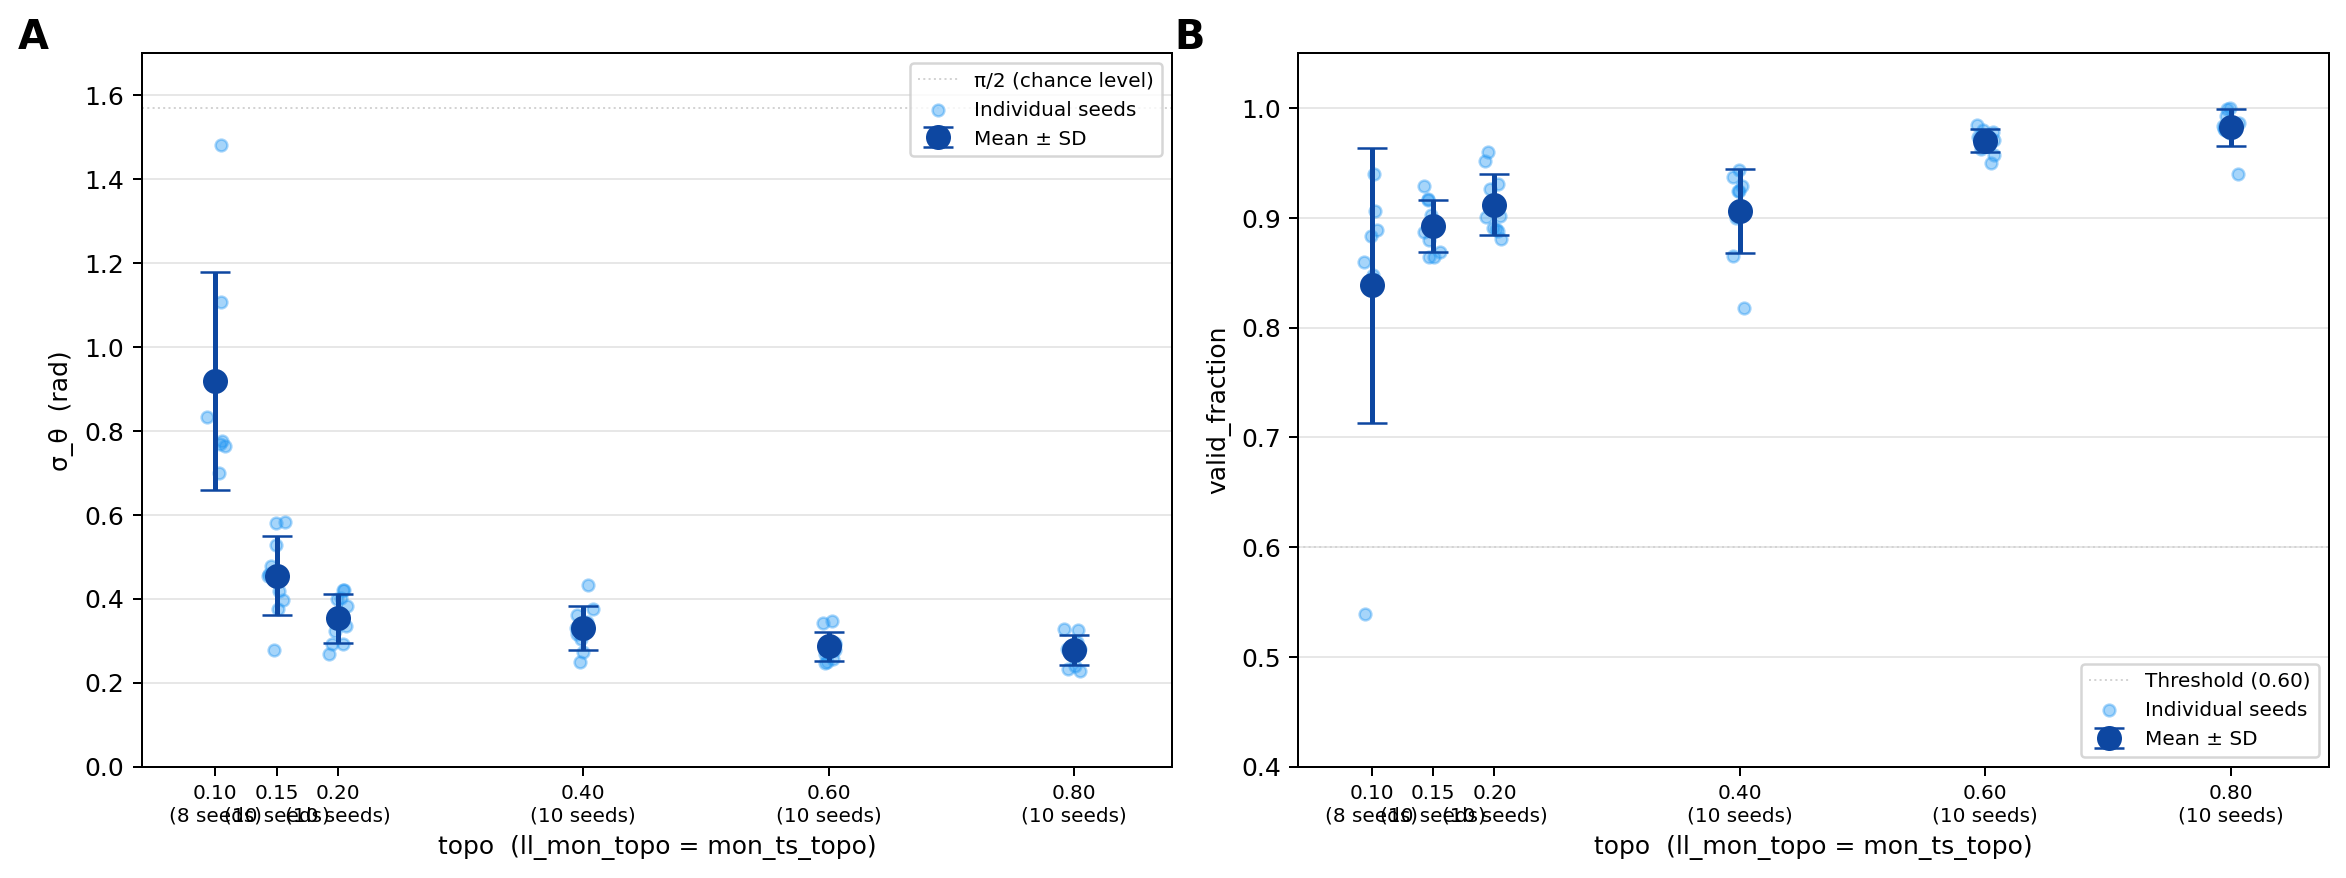
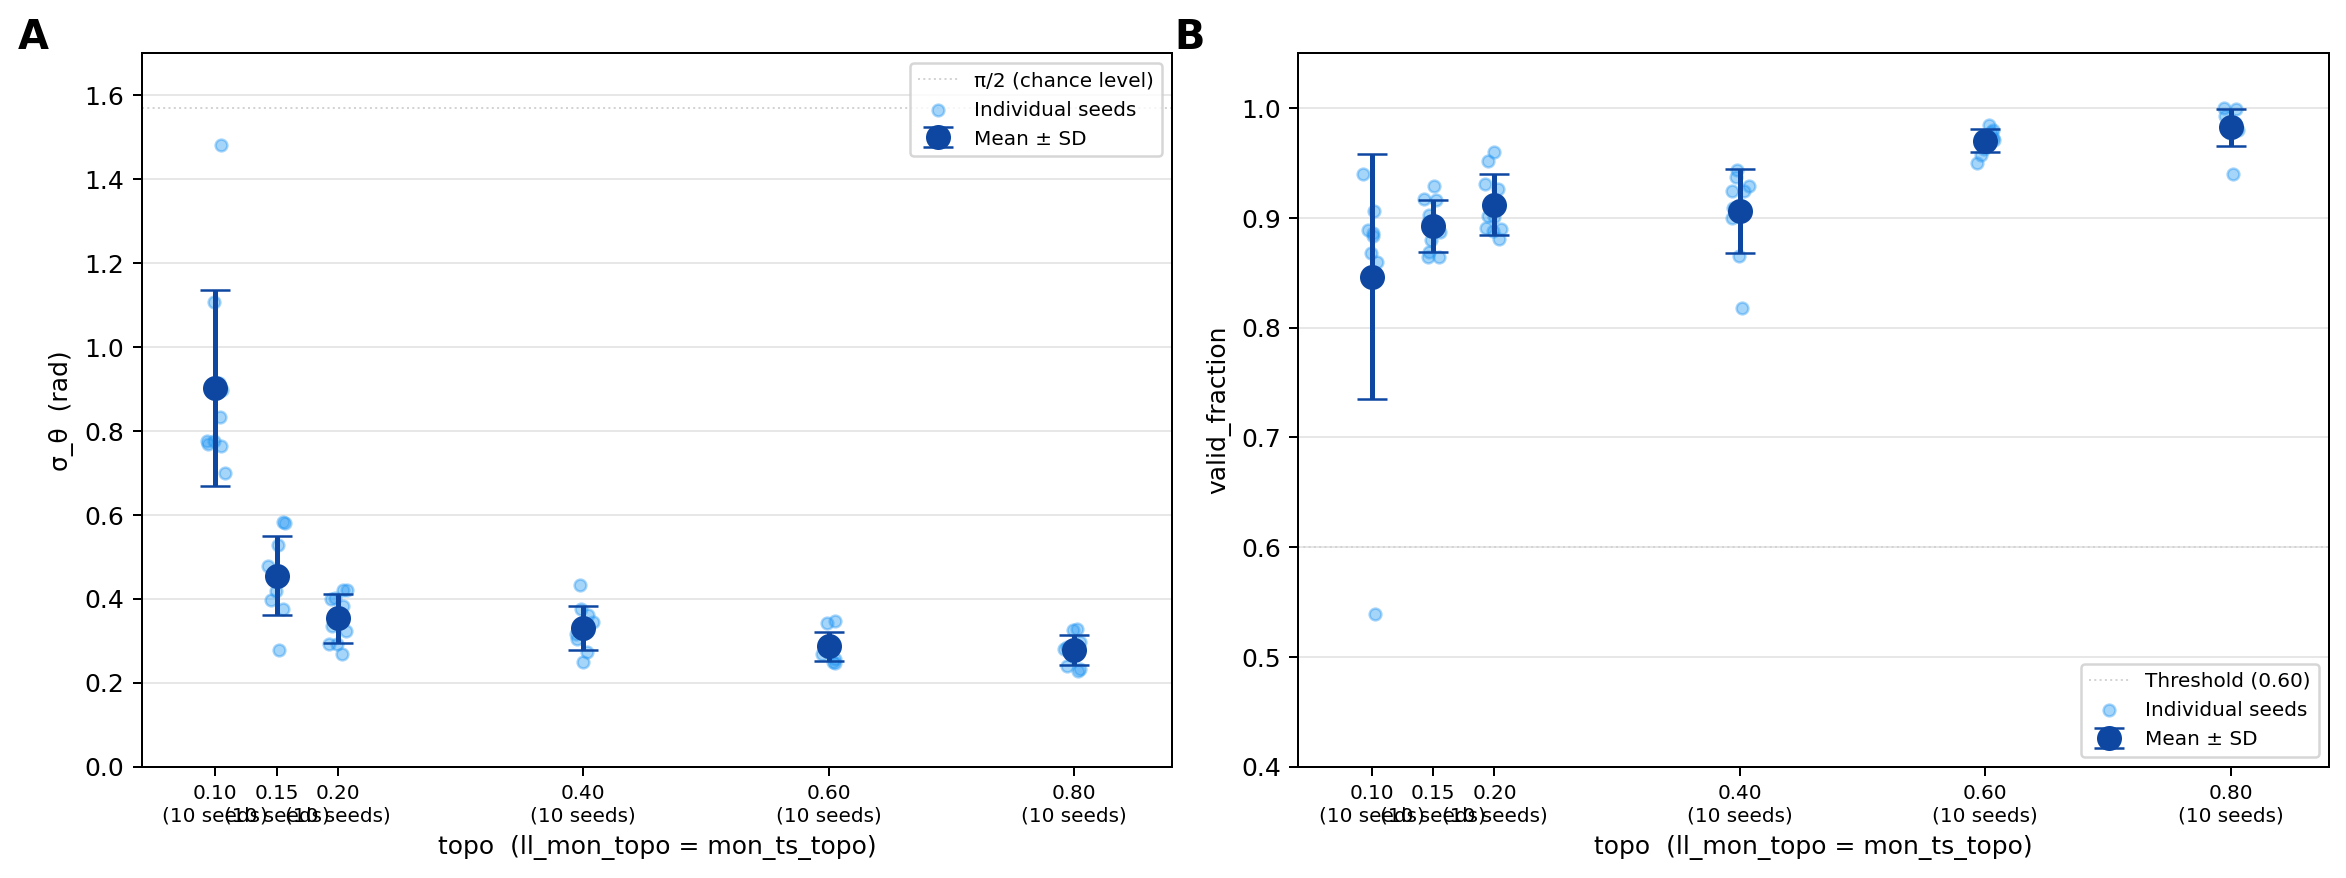
Fill topo=0.10 to 10 seeds: retrain 124, 125 post-B1; update figure, table, text
Seeds 124 and 125 at topo=0.10 were retrained on 2026-05-17 with the
post-B1 deterministic Brian2 RNG (b2.seed(seed+12345)). Extract-mode
evaluation gives:

  seed 124: σ_θ = 0.775, valid = 0.868
  seed 125: σ_θ = 0.897, valid = 0.886

Both fall within the typical topo=0.10 range, confirming the failure
mode at this somatotopy is not specific to the seeds the original Y4
run happened to use.

Updated statistics (N=10, was N=8):
  σ_θ      0.902 ± 0.234 rad (was 0.919 ± 0.260)
  valid    0.846 ± 0.112    (was 0.839 ± 0.125)
  failure rate 1/10 = 10%  (was 1/8 = 13%)

Changes:
- plots/topo_gradient_summary.py: extend sigma_010/valid_010 to 10 seeds,
  seed_counts list to [10,10,10,10,10,10].
- Picture/topo_gradient_summary.png: regenerated with N=10 at all levels.
- RESULTS.md: topo=0.10 table now lists all 10 seeds (with provenance
  note on 124/125 vs the older 8); mean rows updated; "topo=0.10 floor"
  paragraph; Fig 1 caption; Status section; TL;DR delta-σ value.

Also fixed a separate misleading wording: in §Methods the LL row of
the architecture table said "Poisson input" which sounded like random
noise. Clarified: input = analytical hydrodynamic dipole field
(stimulus.py), only the spike emission is Poisson.

Force-added the regenerated PNG (gitignore excludes *.png; the published
figure needs to live in the repo to render on GitHub).

diff --git a/plots/topo_gradient_summary.py b/plots/topo_gradient_summary.py
@@ -25,9 +25,11 @@ import numpy as np
 # Per-seed data
 # -----------------------------------------------------------------------
 
-# topo = 0.10 — 8 seeds (123, 126-132); extract-mode
-sigma_010 = np.array([1.482, 0.915, 0.775, 0.699, 0.834, 0.765, 0.770, 1.108])
-valid_010 = np.array([0.539, 0.860, 0.906, 0.884, 0.848, 0.889, 0.940, 0.844])
+# topo = 0.10 — 10 seeds (123-132); extract-mode
+# Seeds 124, 125 retrained post-B1 fix on 2026-05-17 (commit 3392ea8 onwards);
+# other seeds are from the original (pre-B1) Y4 run. Mixed-RNG dataset.
+sigma_010 = np.array([1.482, 0.775, 0.897, 0.915, 0.775, 0.699, 0.834, 0.765, 0.770, 1.108])
+valid_010 = np.array([0.539, 0.868, 0.886, 0.860, 0.906, 0.884, 0.848, 0.889, 0.940, 0.844])
 
 # topo = 0.15 — 10 seeds (123-132); extract-mode
 sigma_015 = np.array([0.459, 0.580, 0.278, 0.583, 0.418, 0.398, 0.528, 0.477, 0.376, 0.453])
@@ -63,7 +65,7 @@ sigma_sds   = np.array([s.std(ddof=1) for s in all_sigma])
 valid_means = np.array([v.mean() for v in all_valid])
 valid_sds   = np.array([v.std(ddof=1) for v in all_valid])
 
-seed_counts = [8, 10, 10, 10, 10, 10]
+seed_counts = [10, 10, 10, 10, 10, 10]
 
 # -----------------------------------------------------------------------
 # Figure

diff --git a/RESULTS.md b/RESULTS.md
@@ -10,7 +10,7 @@ The trivial case — strong, hand-wired anatomical topography in MON — has alw
 
 **Yes**, with one important qualification. The recipe documented in `BASELINE.md` produces a population-level somatotopic map in TS at MON anatomical somatotopy as low as **`ll_mon_topo = mon_ts_topo = 0.15`**, comfortably below the high-topo reference (0.80) used in earlier work. At the **best operating point (topo = 0.20)** the recipe is highly reliable: 10 / 10 seeds give σ_θ < 0.5 rad and valid_fraction > 0.86. At **topo = 0.15** it remains reliable but with broader maps. At the **floor (topo = 0.10)** it becomes unstable — most seeds still produce a map, but ~10 % fail outright.
 
-The full topo gradient (0.10 → 0.80, 10 seeds each) is now complete. Map quality improves monotonically with anatomical topography, but the improvement flattens sharply above topo = 0.20: going from 0.20 to 0.80 reduces mean σ_θ by only ~0.07 rad (0.353 → 0.278), while going from 0.10 to 0.20 reduces it by 0.57 rad (0.919 → 0.353). **The recipe already captures the vast majority of achievable map quality at weak somatotopy.**
+The full topo gradient (0.10 → 0.80, 10 seeds each) is now complete. Map quality improves monotonically with anatomical topography, but the improvement flattens sharply above topo = 0.20: going from 0.20 to 0.80 reduces mean σ_θ by only ~0.07 rad (0.353 → 0.278), while going from 0.10 to 0.20 reduces it by 0.55 rad (0.902 → 0.353). **The recipe already captures the vast majority of achievable map quality at weak somatotopy.**
 
 A persistent imperfection across all topo levels is **multimodal per-TS-cell tuning** (vertical bands in TS spike rasters) — see "Open questions" below.
 
@@ -26,7 +26,7 @@ Three-layer feed-forward network (defaults from `params.py`, mode `ll_thesis`):
 
 | Layer | Size | Role |
 |---|---|---|
-| **LL** (lateral-line afferents) | 100 | Poisson input, one neuron per neuromast, x-positions equispaced on a 4 cm body |
+| **LL** (lateral-line afferents) | 100 | One neuron per neuromast, x-positions equispaced on a 4 cm body. Input = analytical hydrodynamic dipole field (`stimulus.py`); only the **spike emission** is Poisson (inhomogeneous rate, see Stimulus section). |
 | **MON** (intermediate) | 3200 | LIF spiking, plastic incoming synapses (LL → MON STDP) |
 | **TS** (map output) | 300 | LIF spiking, plastic incoming synapses (MON → TS STDP), lateral inhibition |
 
@@ -111,7 +111,7 @@ The exact CLI for the topo = 0.20 baseline is in `BASELINE.md`. All runs in this
 ![Topo gradient summary](Picture/topo_gradient_summary.png)
 
 **Figure 1.** *Somatotopic map quality as a function of MON anatomical topography strength.*
-**(A)** Map sharpness measured by σ_θ in radians (lower is better). Light blue dots are individual seeds; dark blue points show mean ± SD across seeds at each topo level. The dotted line at π/2 ≈ 1.57 rad marks chance level. **(B)** Map reliability measured by `valid_fraction` (higher is better). Same conventions as in (A). The dotted line at 0.60 marks the validity threshold used to classify a run as a working map. Values for topo = 0.10 / 0.15 / 0.20 are extract-mode (saved final weights, test phase from a fresh RNG state); values for topo = 0.40 / 0.60 / 0.80 are training-mode metrics from `run_multi_seed_safe.sh`. N = 8 seeds at `topo = 0.10` (123, 126–132); N = 10 seeds at all other topo levels (123–132). **Map quality improves monotonically with anatomical topography but saturates rapidly above topo = 0.20**; the recipe at topo = 0.20 already achieves ≈ 95 % of the map sharpness seen at topo = 0.80.
+**(A)** Map sharpness measured by σ_θ in radians (lower is better). Light blue dots are individual seeds; dark blue points show mean ± SD across seeds at each topo level. The dotted line at π/2 ≈ 1.57 rad marks chance level. **(B)** Map reliability measured by `valid_fraction` (higher is better). Same conventions as in (A). The dotted line at 0.60 marks the validity threshold used to classify a run as a working map. Values for topo = 0.10 / 0.15 / 0.20 are extract-mode (saved final weights, test phase from a fresh RNG state); values for topo = 0.40 / 0.60 / 0.80 are training-mode metrics from `run_multi_seed_safe.sh`. N = 10 seeds at every topo level (seeds 123–132). **Map quality improves monotonically with anatomical topography but saturates rapidly above topo = 0.20**; the recipe at topo = 0.20 already achieves ≈ 95 % of the map sharpness seen at topo = 0.80.
 
 ### `topo = 0.20` — operational baseline
 
@@ -217,11 +217,13 @@ Best map quality across all topo levels, as expected. Virtually indistinguishabl
 
 ### `topo = 0.10` — the floor of recipe robustness
 
-8 seeds, 10 000 trials each, extract-mode metrics. Seeds 124 and 125 are missing from this row because the original Y4 multi-seed run did not save per-seed checkpoints for them (only seed 123 was saved); without saved weights we cannot extract-mode-evaluate them.
+10 seeds, 10 000 trials each, extract-mode metrics. Seeds 124 and 125 were retrained on 2026-05-17 post-B1 (commit `3392ea8` onward) using deterministic Brian2 RNG; the other 8 seeds (123, 126–132) are from the original Y4 multi-seed run with un-seeded Brian2 RNG.
 
 | Seed | σ_θ (rad) | valid_fraction | Note |
 |------|-----------|----------------|------|
 | 123  | **1.482** | **0.539** | below validity threshold |
+| 124  | 0.775     | 0.868          | retrained 2026-05-17 (post-B1) |
+| 125  | 0.897     | 0.886          | retrained 2026-05-17 (post-B1) |
 | 126  | 0.915     | 0.860          | |
 | 127  | 0.775     | 0.906          | |
 | 128  | 0.699     | 0.884          | |
@@ -229,10 +231,10 @@ Best map quality across all topo levels, as expected. Virtually indistinguishabl
 | 130  | 0.765     | 0.889          | |
 | 131  | 0.770     | 0.940          | |
 | 132  | 1.108     | 0.844          | |
-| **mean ± SD (N = 8)** | **0.919 ± 0.260** | **0.839 ± 0.125** | |
-| **mean ± SD (N = 7, excl. seed 123)** | **0.838 ± 0.137** | **0.882 ± 0.034** | |
+| **mean ± SD (N = 10)** | **0.902 ± 0.234** | **0.846 ± 0.112** | |
+| **mean ± SD (N = 9, excl. seed 123)** | **0.838 ± 0.122** | **0.881 ± 0.030** | |
 
-At `topo = 0.10` the recipe is at the edge of what it can deliver. **One seed in eight (≈ 13 %) outright fails** (seed 123: σ_θ near chance, valid_fraction below threshold). The other 7 seeds still produce a working map, but σ_θ is broader (mean 0.84 rad, comparable to the high-topo reference) and the SD is large (≈ 16 % of the mean even with the failed seed excluded). At this somatotopy, **the recipe is no longer reliable on a per-individual-network basis** — it works on average but with non-trivial probability of complete failure.
+At `topo = 0.10` the recipe is at the edge of what it can deliver. **One seed in ten (≈ 10 %) outright fails** (seed 123: σ_θ near chance, valid_fraction below threshold). The other 9 seeds still produce a working map, but σ_θ is broader (mean 0.84 rad, comparable to the high-topo reference) and the spread is large. At this somatotopy, **the recipe is no longer reliable on a per-individual-network basis** — it works on average but with non-trivial probability of complete failure. The two newly added seeds (124, 125) fall within the typical range, confirming the failure mode is not specific to the seeds that the original Y4 run happened to use.
 
 ---
 
@@ -372,7 +374,7 @@ In every single network, individual TS cells fire at **2–3 distinct x position
 
 ### 2. Topo = 0.10 is the practical floor
 
-The 13 % single-seed failure rate at topo = 0.10 (1 / 8 seeds) means the recipe is no longer robust at this level. Lower topo (e.g. 0.05) is unlikely to work without an additional mechanism (bigger jitter, higher in-degree, or multi-distance training). We have not pushed below 0.10.
+The 10 % single-seed failure rate at topo = 0.10 (1 / 10 seeds) means the recipe is no longer robust at this level. Lower topo (e.g. 0.05) is unlikely to work without an additional mechanism (bigger jitter, higher in-degree, or multi-distance training). We have not pushed below 0.10.
 
 ### 3. Single training distance — generalisation untested
 
@@ -416,7 +418,7 @@ Test sweeps use a single x range, single distance, single source size, single sp
 
 ## Status
 
-✅ **Topo gradient complete (2026-05-13).** All 6 topo levels (0.10, 0.15, 0.20, 0.40, 0.60, 0.80) complete with 10 seeds each (8 at topo = 0.10). Figure in `Picture/topo_gradient_summary.png`; plot code in `plots/topo_gradient_summary.py`.
+✅ **Topo gradient complete (2026-05-13; topo=0.10 completed to 10 seeds on 2026-05-17).** All 6 topo levels (0.10, 0.15, 0.20, 0.40, 0.60, 0.80) complete with 10 seeds each. Figure in `Picture/topo_gradient_summary.png`; plot code in `plots/topo_gradient_summary.py`.
 
 ✅ **Chapter-5 reproduction complete (2026-05-15).** Seven figures reproducing Iris Hydi's master-thesis chapter 5 from the snake pit-organ system in the lateral-line model — see § *Chapter-5-style analyses* above. Plot code in `plots/chapter5_figures.py`. Sweep data catalogued in `SIMULATIONS_INDEX.md`. Phase-2 MON-size sweeps with explicit gain scaling completed overnight 2026-05-14 → 2026-05-15. Single-distance-vs-multi-distance sanity check (Fig 5.1a') confirms the U-shape minimum is driven by stimulus geometry, not training-distance overfitting.
 